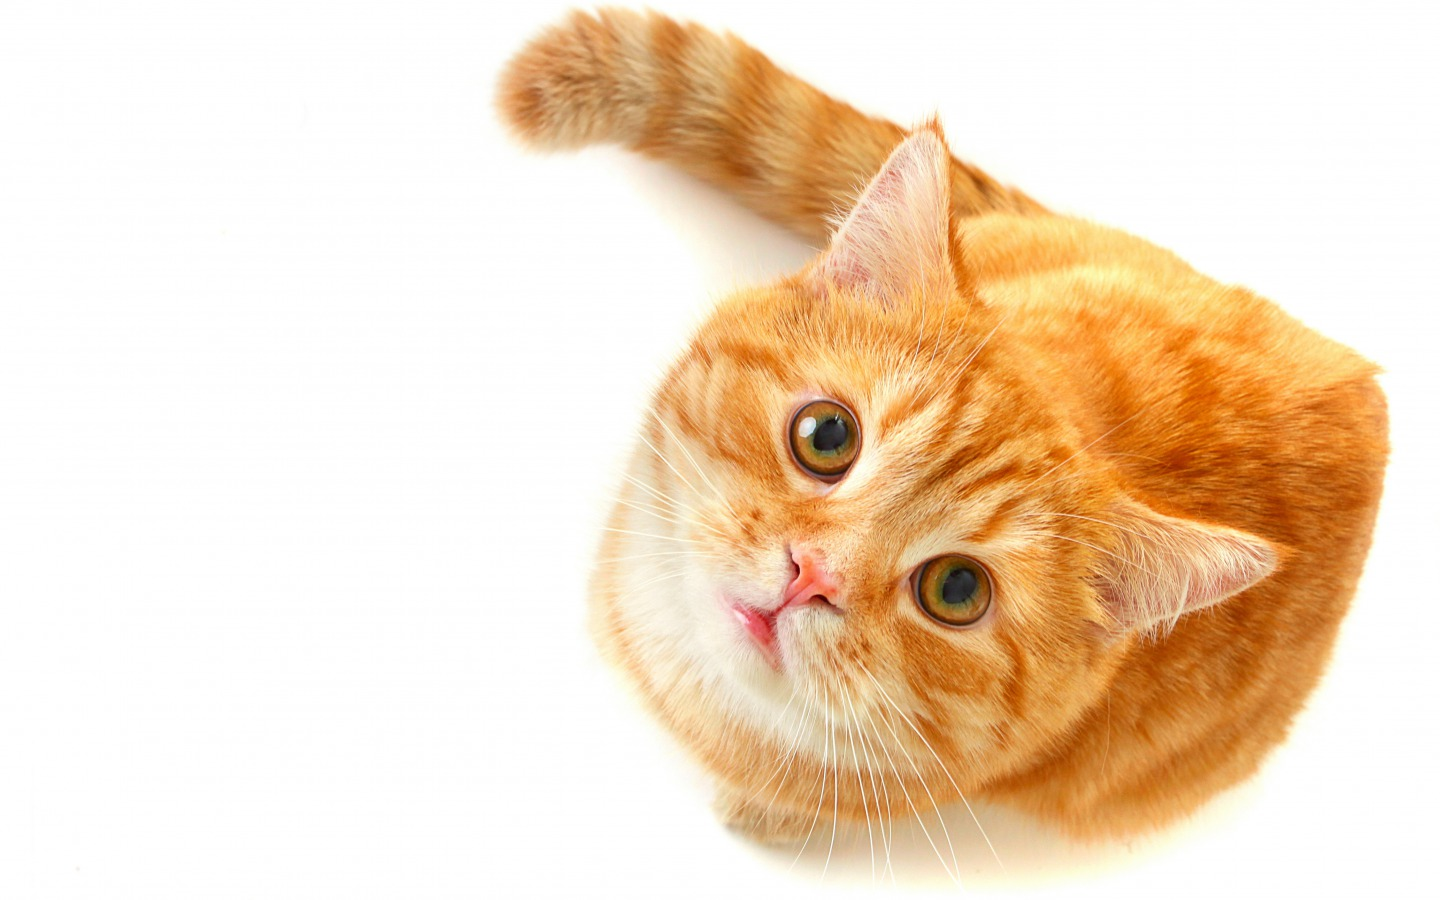
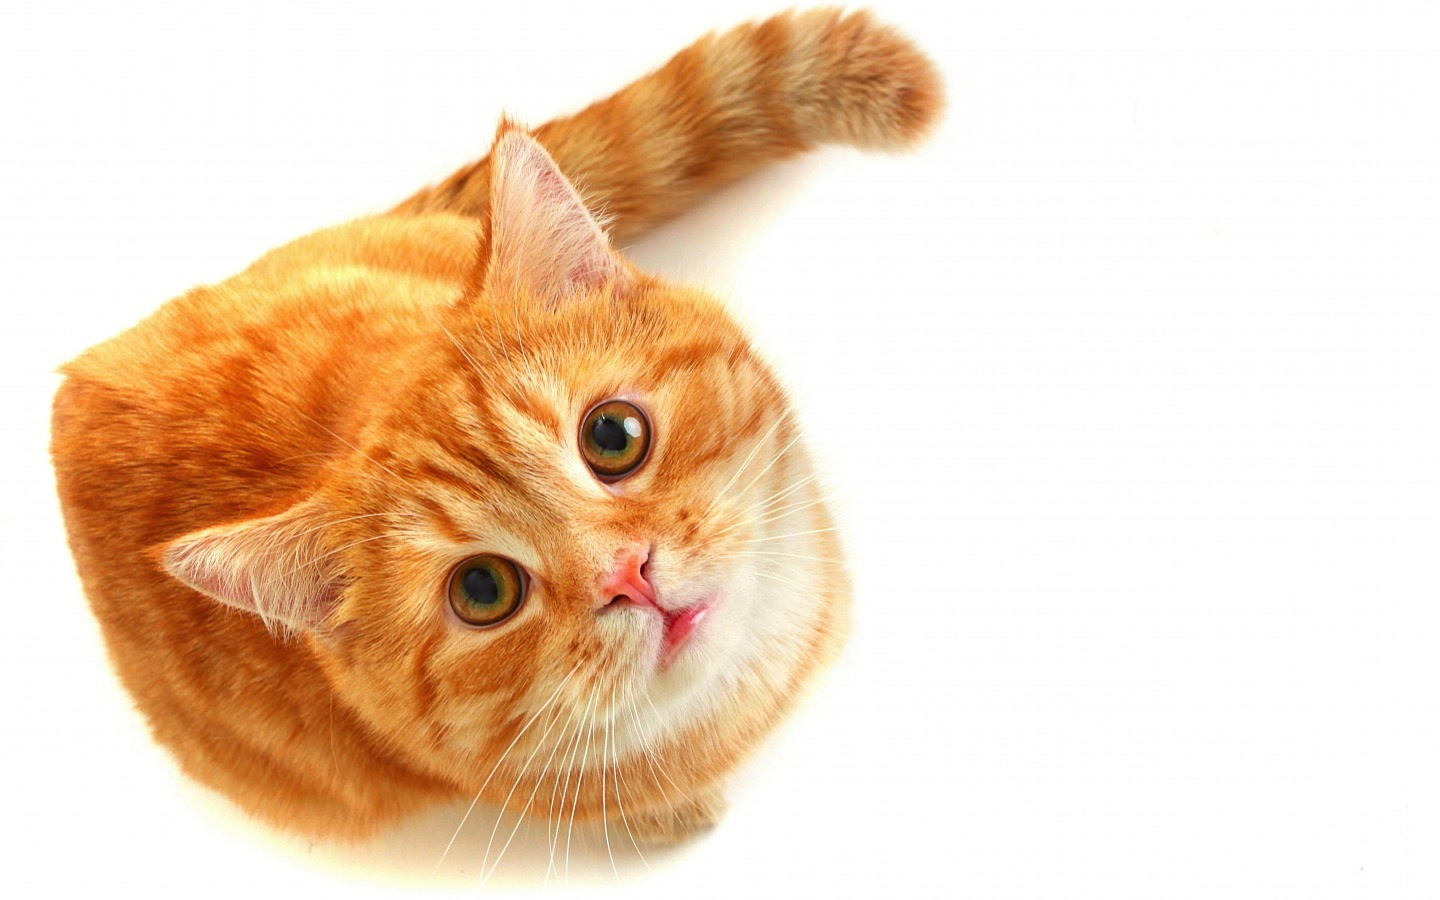
meh

diff --git a/public/css/application.css b/public/css/application.css
@@ -1,6 +1,16 @@
+a {
+  color: orange;
+  font-weight: bold;
+  text-decoration: none;
+}
+
+a:hover {
+  text-decoration: underline;
+}
+
 body {
   background-image: url(/images/cat.jpg);
-  background-position: fixed;
+  background-repeat: no-repeat;
 }
 
 .container {
@@ -11,6 +21,10 @@ body {
   background-color: white;
 }
 
+.error {
+  color: red;
+}
+
 h1 {
   text-align: center;
   border-color: #ddd;
@@ -18,13 +32,13 @@ h1 {
   border-width: 0 0 1px 0;
 }
 
-li {
-  display: inline;
-  margin: 0 8px 0 8px;
-}
-
 .login-form {
   display: inline;
+}
+
+.login-li {
+  display: inline;
+  margin: 0 8px 0 8px;
 }
 
 th {
@@ -32,7 +46,6 @@ th {
 }
 
 .topnav {
-  width: 100%;
   background-color: black;
   color: white;
   padding: 8px;
@@ -42,4 +55,9 @@ ul {
   list-style: none;
   margin: 0;
   padding: 0;
+}
+
+.userimage {
+  float: left;
+  padding: 8px;
 }

diff --git a/app/controllers/index.rb b/app/controllers/index.rb
@@ -1,4 +1,40 @@
+enable :sessions
+
 get '/' do
   # Look in app/views/index.erb
   erb :index
+end
+
+get '/test' do
+  # 
+end
+
+post '/login' do
+  # get authorization
+  # key = "" #substitute your keys
+  # secret = ""
+
+  # consumer = OAuth::Consumer.new(key, secret, {:site => "http://github.com"})
+  # request_token = consumer.get_request_token
+  # client = Octokit::Client.new(:login => params[:username], :oauth_token => "oauth2token")
+  # p request_token.authorize_url
+
+  #user needs to go to this url and approve it
+  # access_token = request_token.get_access_token
+end
+
+get '/user/:username' do
+  begin
+    if Octokit.user params[:username]
+      @user = Octokit.user params[:username]
+      erb :username
+    end
+  rescue
+    @message = "No such user."
+    erb :index
+  end
+end
+
+post '/user' do
+  redirect "/user/#{params[:get_username]}"
 end

diff --git a/config/environment.rb b/config/environment.rb
@@ -22,6 +22,8 @@ require 'erb'
 
 require 'octokit'
 
+# require 'omniauth/oauth'
+
 # Some helper constants for path-centric logic
 APP_ROOT = Pathname.new(File.expand_path('../../', __FILE__))
 
